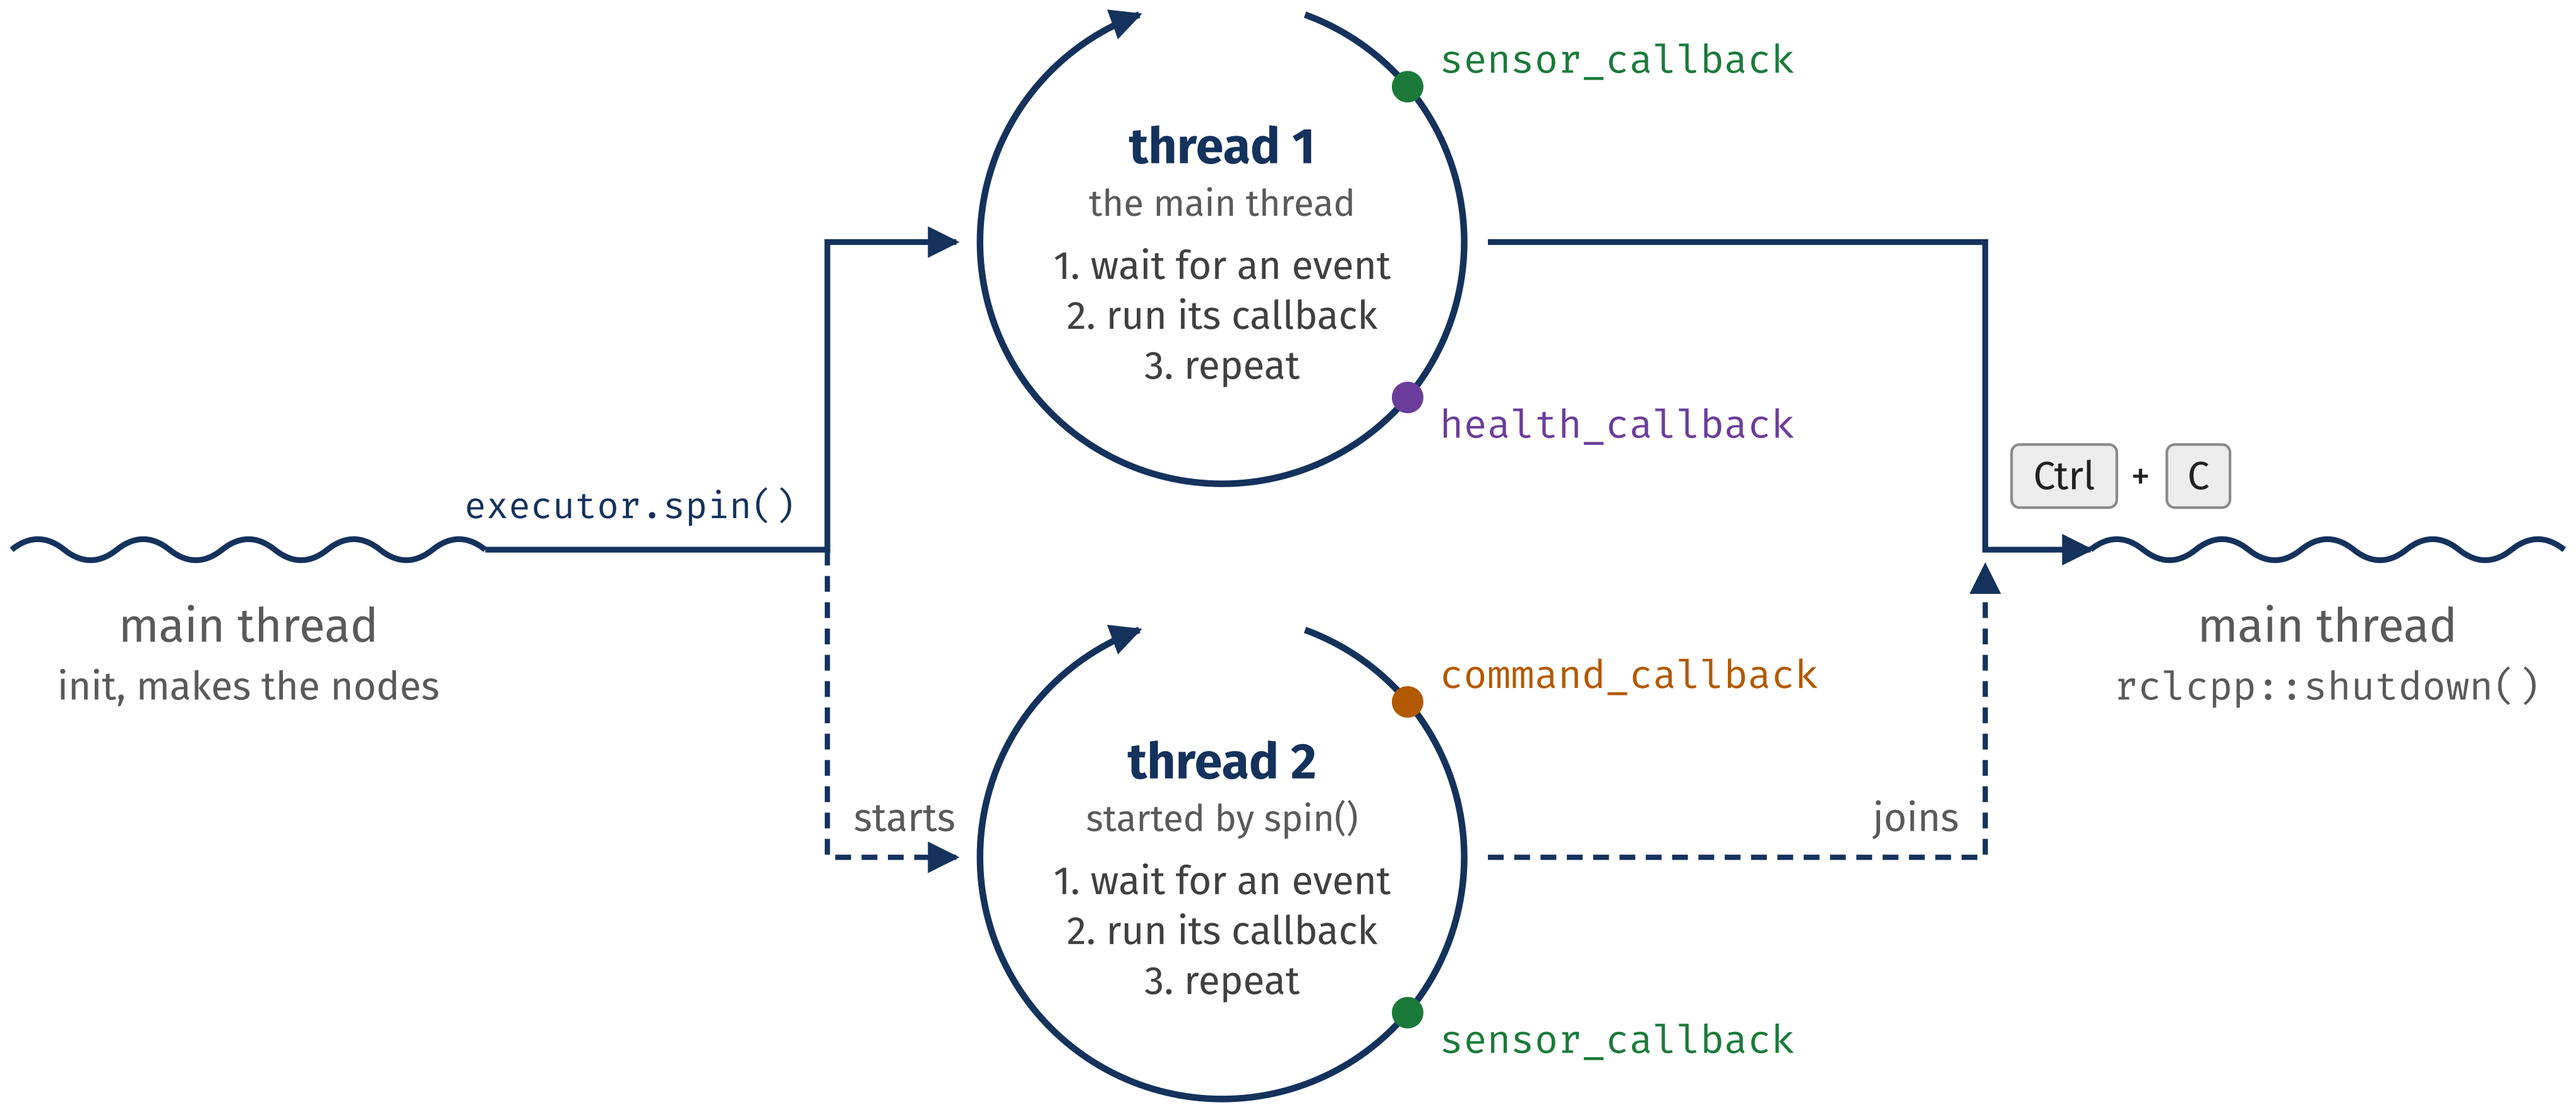
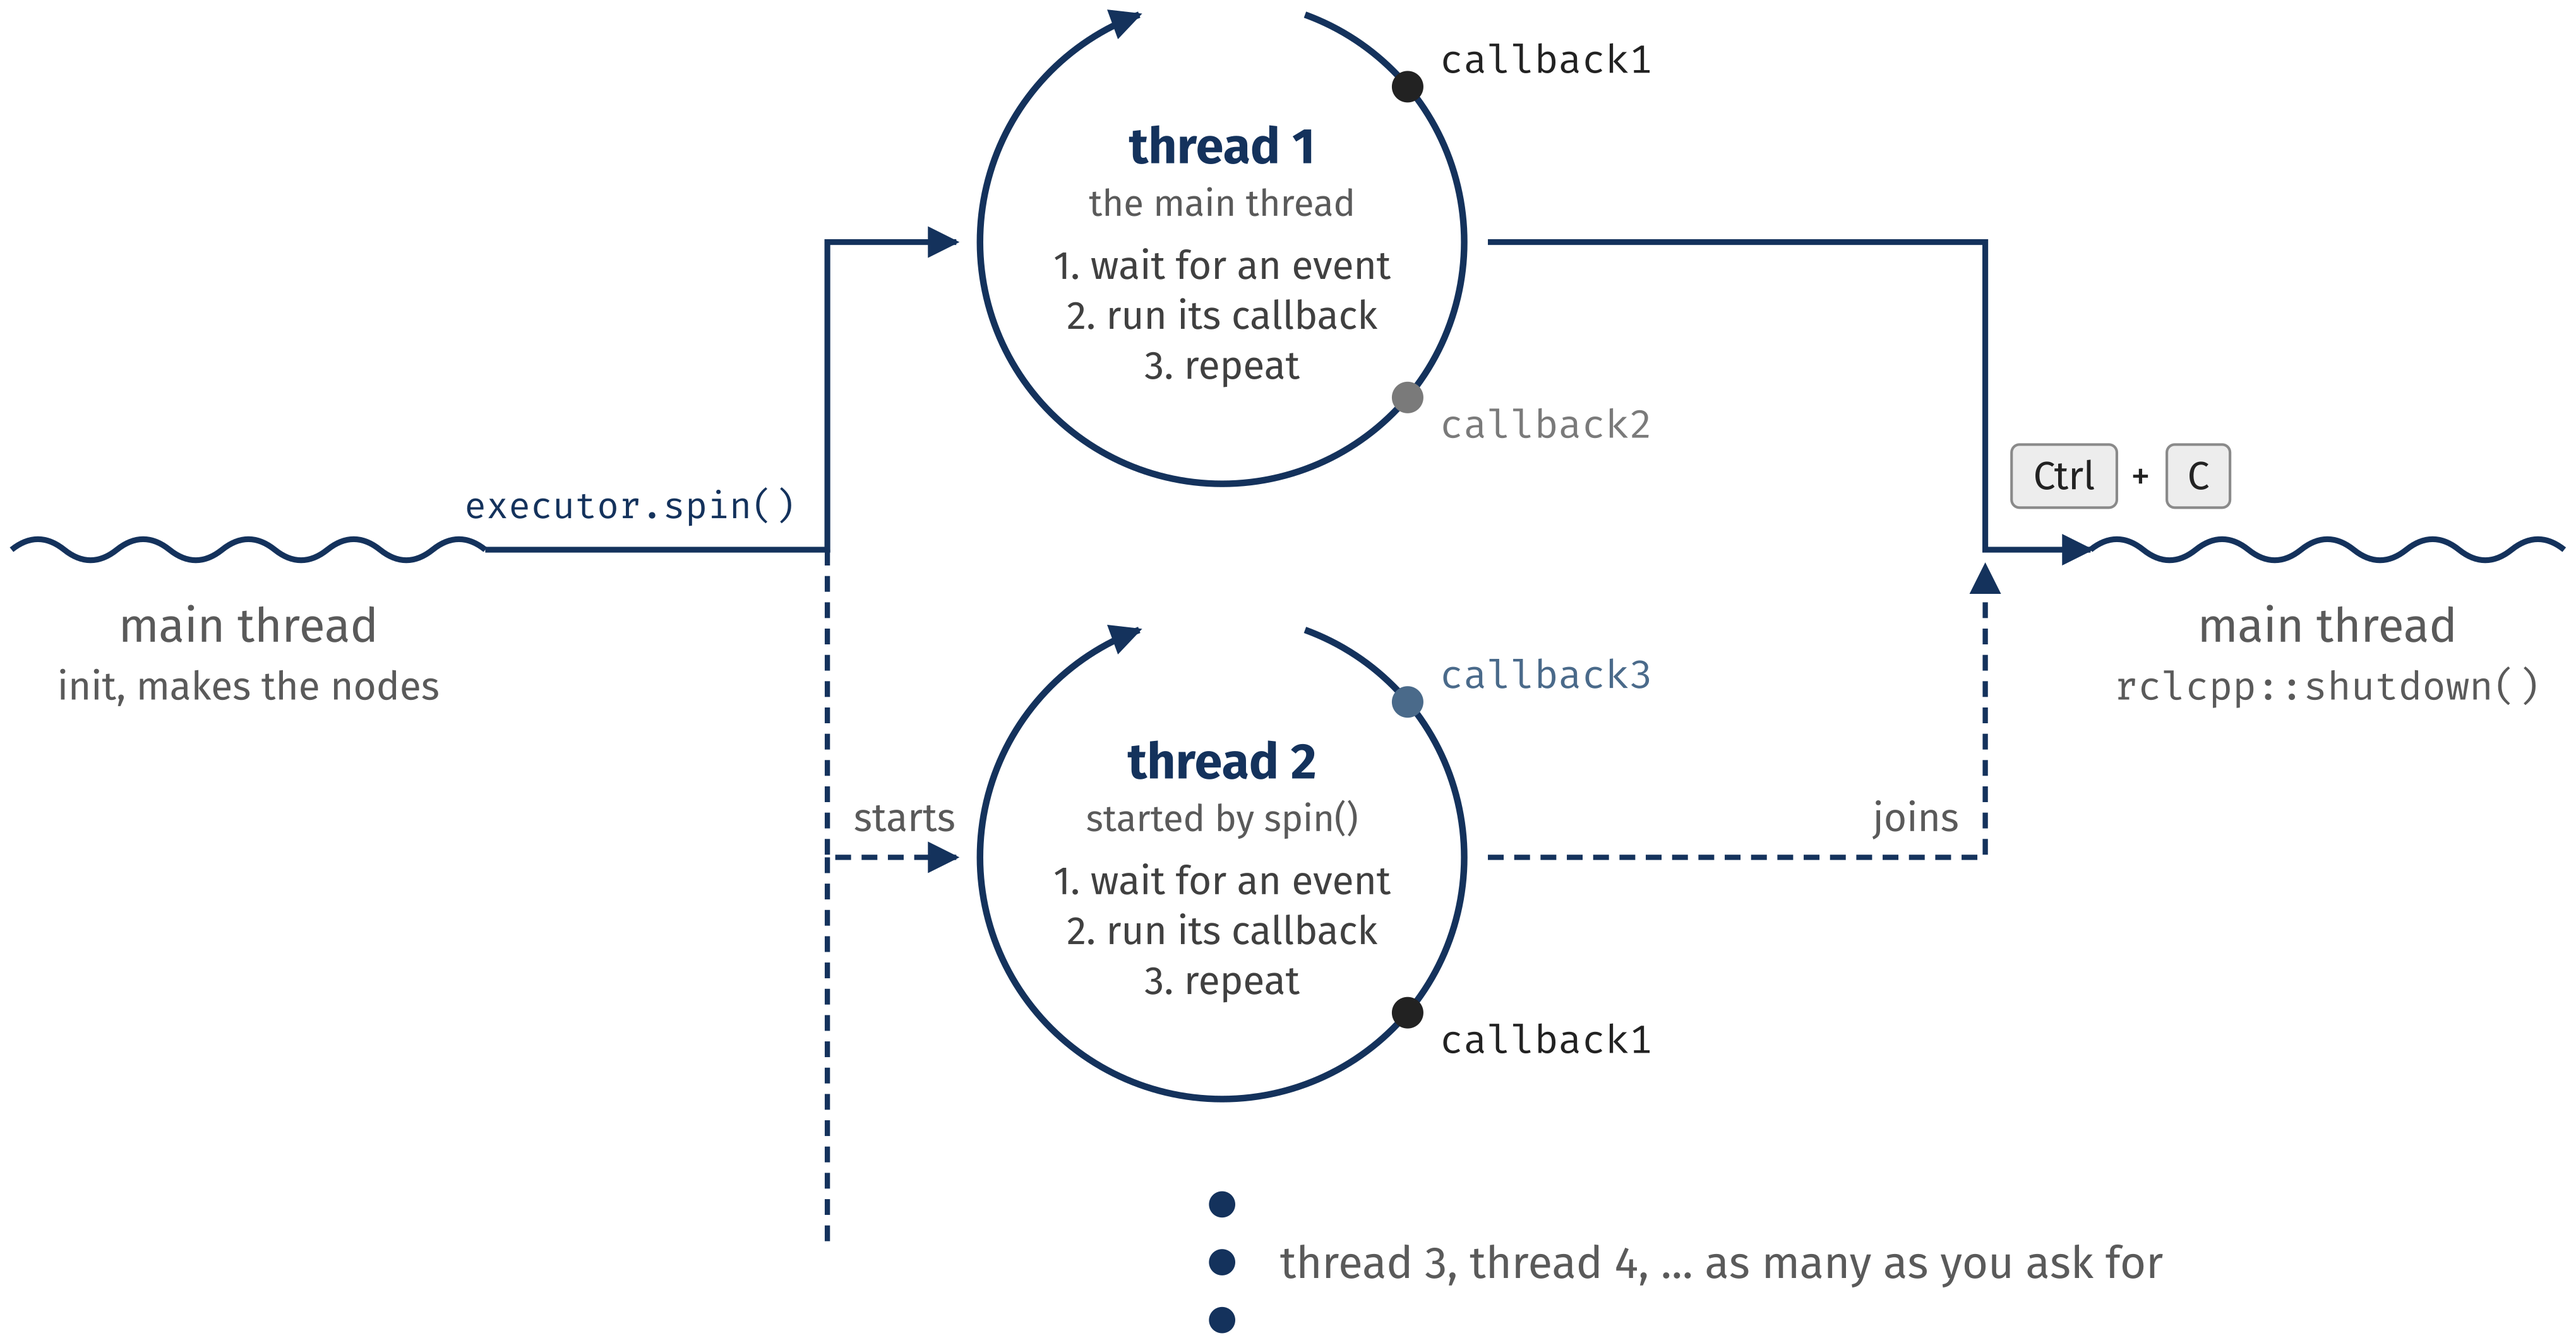
L11: synced with the final deck
Concurrency next to parallelism (with a timeline), C++ threads run in
true parallelism, demo 1 explained with the mutually exclusive group, the
multi-threaded executor figure with generic callbacks and more threads,
and what the three package.xml lines do.

diff --git a/docs/source/lectures/lecture11/l11_lecture.rst b/docs/source/lectures/lecture11/l11_lecture.rst
@@ -984,13 +984,13 @@ Multi-Threaded Executors
    An executor with several threads. Each thread runs one callback at a time, so several callbacks can run at the same time.
 
 .. figure:: /_static/images/l11/mte_loops.png
-   :alt: Two circles, one above the other: thread 1, the main thread, on top, and thread 2, started by spin(), below. Each circle holds 1. wait for an event, 2. run its callback, 3. repeat, and an arrow runs clockwise around it. On the left, a wavy line labeled main thread, with init, makes the nodes, sits midway between the circles; its line, labeled executor.spin(), branches into a solid arrow into thread 1 and a dashed arrow labeled starts into thread 2. On the right, a solid arrow from thread 1 and a dashed arrow labeled joins from thread 2 meet, and lead, past the keys Ctrl and C, to a wavy line labeled main thread, with rclcpp::shutdown(). Thread 1 has a green dot, sensor_callback, then a purple dot, health_callback. Thread 2 has an orange dot, command_callback, then a green dot, sensor_callback.
+   :alt: On the left, a wavy line labeled main thread, with init, makes the nodes, leads to executor.spin(). The line branches: a solid arrow into a circle labeled thread 1, the main thread, and a dashed arrow labeled starts into a circle labeled thread 2, started by spin(). Each circle holds 1. wait for an event, 2. run its callback, 3. repeat. Thread 1 has dots callback1 and callback2; thread 2 has dots callback3 and callback1. The dashed line continues down past thread 2 to three dots and the text thread 3, thread 4, ... as many as you ask for. On the right, a solid arrow from thread 1 and a dashed arrow labeled joins from thread 2 meet, past the keys Ctrl and C, at a wavy line labeled main thread, rclcpp::shutdown().
    :align: center
-   :width: 100%
+   :width: 85%
 
-   A multi-threaded executor with two threads: ``executor.spin()`` starts thread 2, and both threads loop.
+   A multi-threaded executor: ``executor.spin()`` starts the extra threads, and each thread loops. You choose how many threads there are.
 
-**Key:** solid line, the main thread, which becomes thread 1 inside ``spin()``; dashed line, thread 2, which ``spin()`` starts and waits for after :kbd:`Ctrl+C`.
+**Key:** solid line, the main thread, which becomes thread 1 inside ``spin()``; dashed line, a thread that ``spin()`` starts and waits for after :kbd:`Ctrl+C`.
 
 One Thread or Several Threads
 """""""""""""""""""""""""""""
@@ -1014,9 +1014,29 @@ A thread runs one callback at a time. Think of a thread as a cook, and a callbac
 .. admonition:: Definition: Parallelism
    :class: tip
 
-   Running two or more callbacks at the same moment, each on its own thread. Such callbacks run **in parallel**.
+   Running two or more callbacks at the same moment, each on its own thread. Such callbacks run **in parallel**. C++ allows true parallelism: since C++11, the threads of one program (``std::thread``) can run at the same moment, each on its own CPU core.
 
 With 3 threads, up to 3 callbacks run in parallel. A fourth waits until a thread is free.
+
+Concurrency and Parallelism
+"""""""""""""""""""""""""""
+
+.. admonition:: Definition: Concurrency
+   :class: tip
+
+   Running two or more callbacks during the same period of time, taking turns. On one thread, they never run at the same moment: a single-threaded executor is concurrent, not parallel.
+
+.. figure:: /_static/images/l11/concurrency_vs_parallelism.png
+   :alt: Timeline with four lanes and a dashed line between the top two and the bottom two; time runs to the right, with no numbers. Above the line, labeled concurrency, 1 thread: callback1 and callback2 each have three bars, and the bars take turns, never at the same time; the last bar ends at the right of the axis. Below the line, labeled parallelism, 2 threads: callback1 and callback2 each have three bars side by side, at the same moments, and the last bars end halfway along the axis.
+   :align: center
+   :width: 90%
+
+   Each bar is one callback run. The figure is drawn for illustration, not measured.
+
+.. admonition:: Conclusion
+   :class: important
+
+   On one thread the runs take turns; on two threads they happen at the same moment, and the same work ends in half the time.
 
 Why Not Run Every Callback in Parallel
 """"""""""""""""""""""""""""""""""""""
@@ -1307,6 +1327,32 @@ This is the waiting of the single-threaded executor (see "A Slow Callback Delays
    :class: important
 
    In a mutually exclusive group, the fast callback waits for the slow one: ``timer2`` ran 5 times, not 11.
+
+Demo 1 Explained: What Mutually Exclusive Does
+""""""""""""""""""""""""""""""""""""""""""""""
+
+.. admonition:: Definition: Mutually Exclusive Group
+   :class: tip
+
+   A group whose callbacks run one at a time. While one of them runs, every other callback of the group waits, even when threads are free. A node's default group is of this type.
+
+.. list-table::
+   :header-rows: 1
+   :widths: 18 82
+
+   * - Time
+     - What happens in group 1
+   * - 0.0 s, 0.5 s
+     - ``timer2`` runs. At 0.5 s, ``timer1`` starts 1.5 s of work.
+   * - 1.0 s, 1.5 s
+     - ``timer2`` is ready, but waits: ``timer1`` is running.
+   * - 2.0 s
+     - ``timer1`` ends. ``timer2`` runs once, then ``timer1`` starts again.
+
+.. admonition:: Conclusion
+   :class: important
+
+   ``timer2`` runs only in the short gap between two runs of ``timer1``: at 2.0, 3.5 and 5.0 s, so 5 times instead of 11.
 
 Demo 2: Both Groups Reentrant
 """""""""""""""""""""""""""""
@@ -1804,13 +1850,14 @@ Lines 12 to 18 of ``CMakeLists.txt``:
 Add these three lines to ``package.xml``:
 
 .. code-block:: xml
+   :linenos:
 
    <buildtool_depend>rosidl_default_generators</buildtool_depend>
    <exec_depend>rosidl_default_runtime</exec_depend>
    <member_of_group>rosidl_interface_packages</member_of_group>
 
 - Lines 15 to 18 turn each listed file into code. ``DEPENDENCIES`` names the packages of the types used inside: ``Header`` and ``Point``.
-- The generators run at build time, the runtime library when a node runs.
+- In ``package.xml``, line 1: the build needs the code generators. Line 2: a node that uses the message needs the runtime library. Line 3: this is an interface package, with code for every client library.
 
 Step 4: Build the Package and Show the Message
 """"""""""""""""""""""""""""""""""""""""""""""
